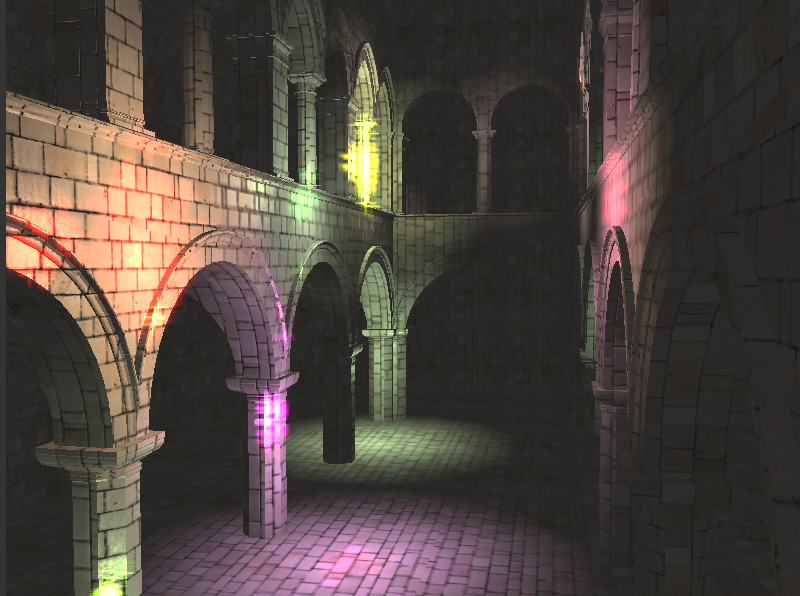
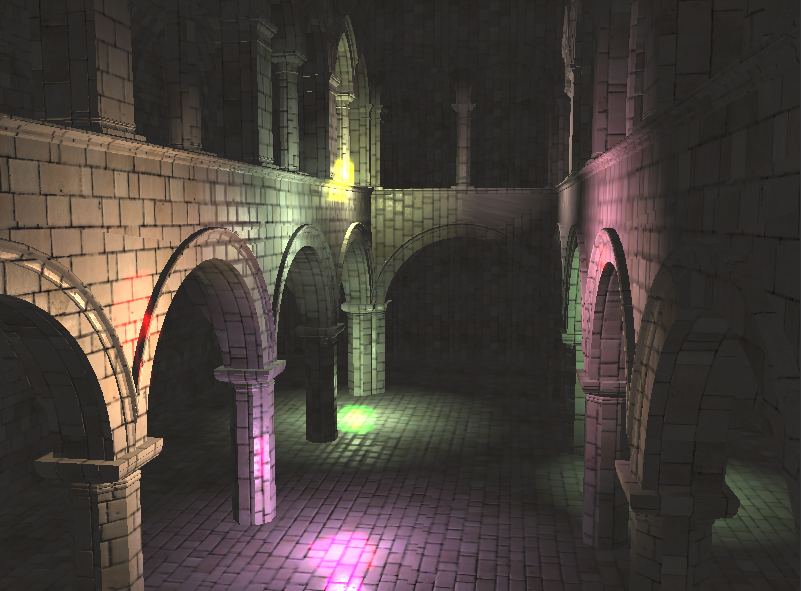
bloom fix using a intermedia glow buffer in deferred shading step

diff --git a/js/deferredRender.js b/js/deferredRender.js
@@ -201,6 +201,7 @@
             gl.bindTexture(gl.TEXTURE_2D, R.pass_deferred.colorTex);
             gl.uniform1f(prog.u_width, width);
             gl.uniform1f(prog.u_height,height);
+            gl.uniform1i(prog.u_color, 0);
             
             //x
             gl.uniform1i(prog.u_axis, 0);
@@ -208,6 +209,11 @@
             renderFullScreenQuad(prog);
             
             //y
+            gl_draw_buffers.drawBuffersWEBGL([gl_draw_buffers.COLOR_ATTACHMENT0_WEBGL]);
+            gl.bindFramebuffer(gl.FRAMEBUFFER, R.pass_deferred.fbo);
+            gl.activeTexture(gl['TEXTURE0']);
+            gl.bindTexture(gl.TEXTURE_2D, R.pass_deferred.glowTex);
+            
             gl.uniform1i(prog.u_axis, 1);
             
             renderFullScreenQuad(prog);
